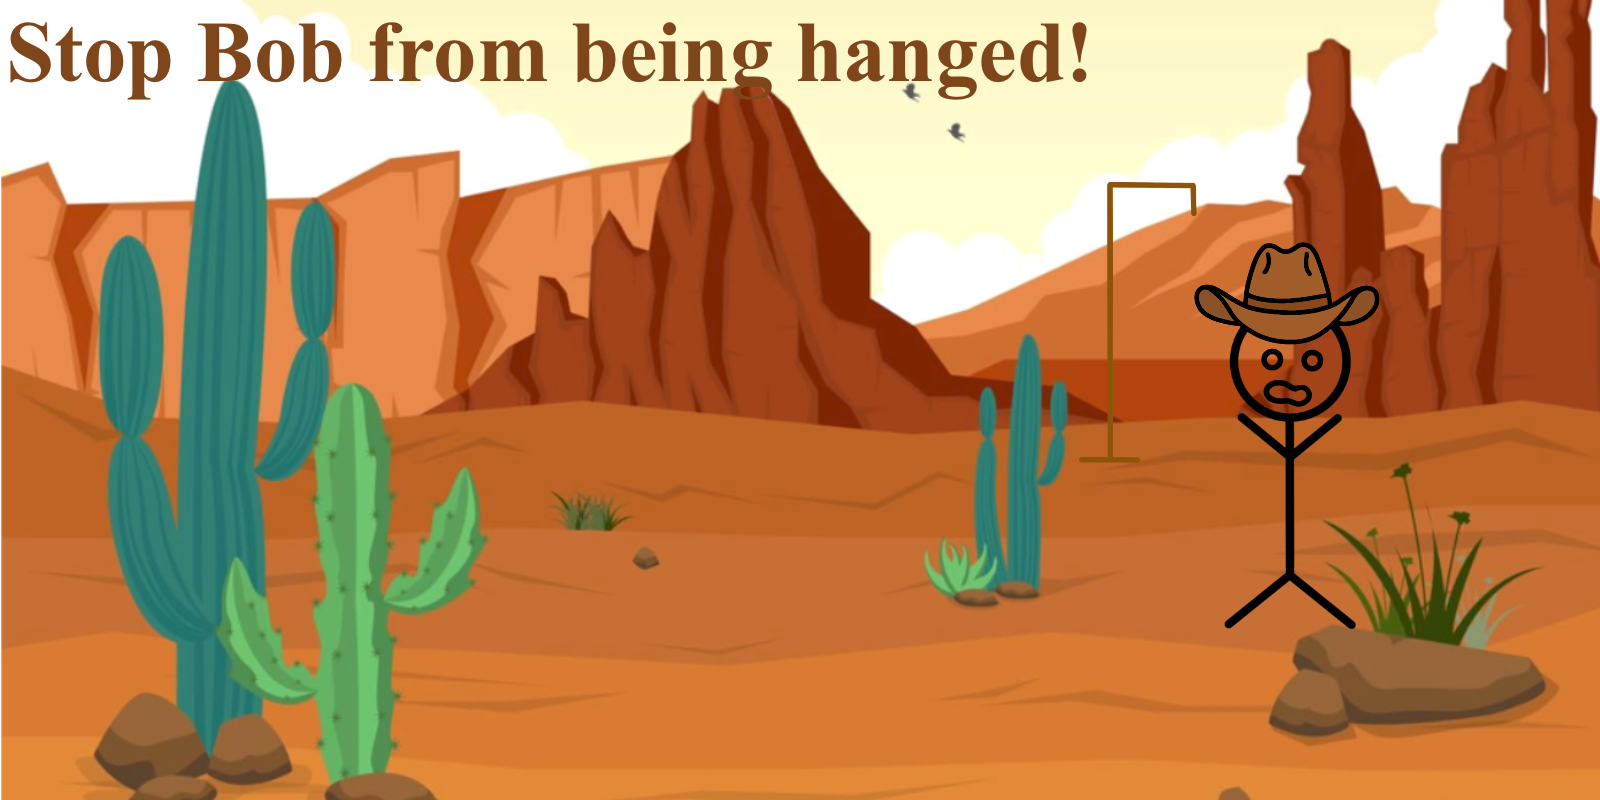
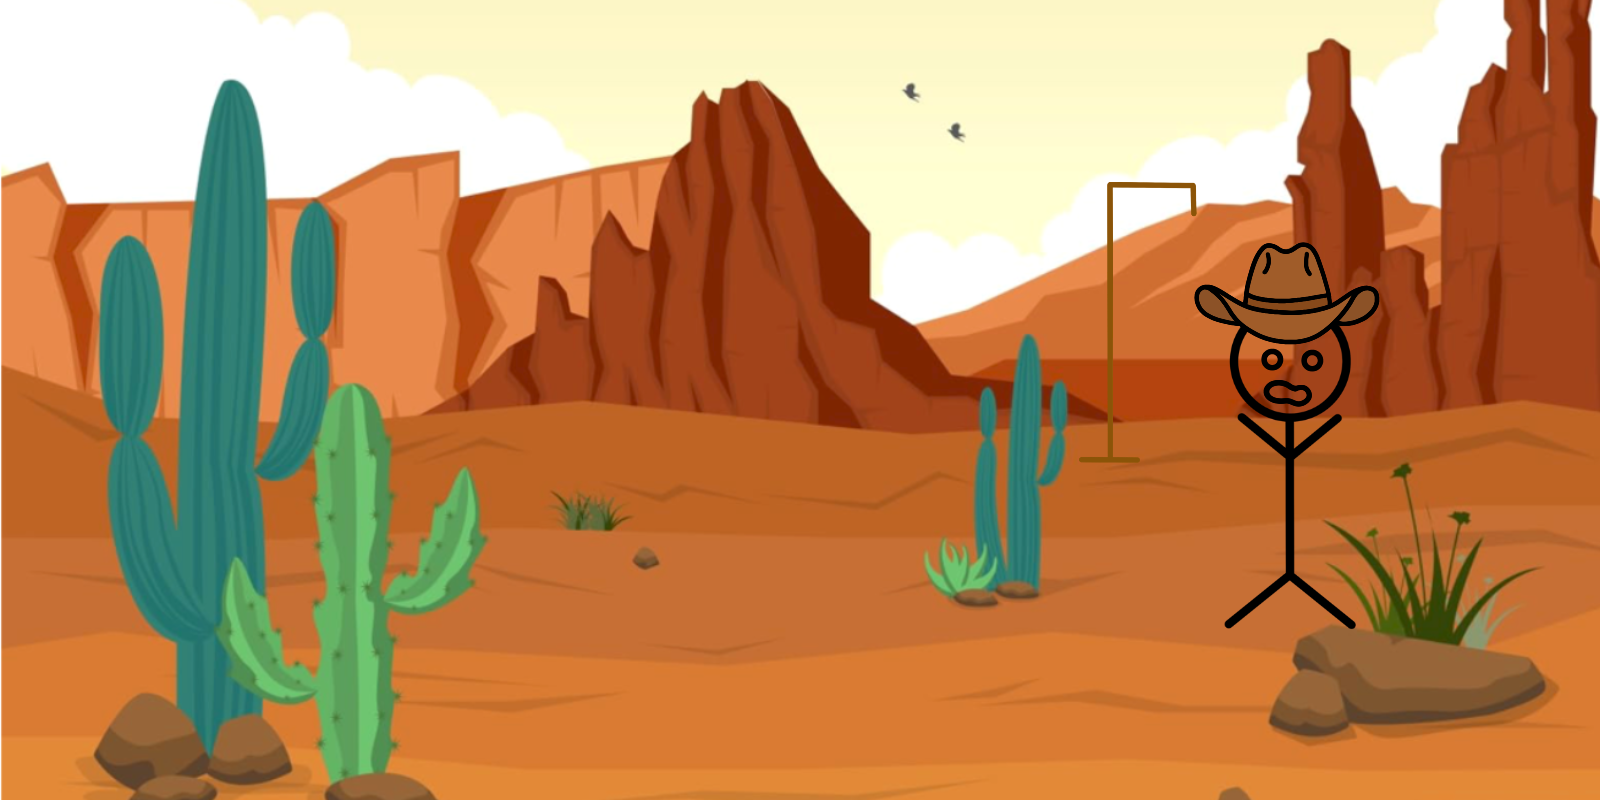
changed hat png

Changed region(s): [[0.0, 0.0312, 0.6875, 0.125]]

diff --git a/HangmanCulminating/src/luellaoife/GUIDriver.java b/HangmanCulminating/src/luellaoife/GUIDriver.java
@@ -448,7 +448,7 @@ public class GUIDriver extends Application {
 				Image body = new Image(new FileInputStream("src/images/body.png"));
 				Image head = new Image(new FileInputStream("src/images/head.png"));
 				Image nothing = new Image(new FileInputStream("src/images/nothing.png"));
-				Image hat = new Image(new FileInputStream("src/images/hat.png"));
+				Image hat = new Image(new FileInputStream("src/images/hathang.png"));
 				Image[] hangmanImages = { nothing, head, body, arm1, arm2, leg1, leg2, hat,hat };
 				ImageView hangmanView = new ImageView(nothing);
 				hangmanView.setFitWidth(280);
